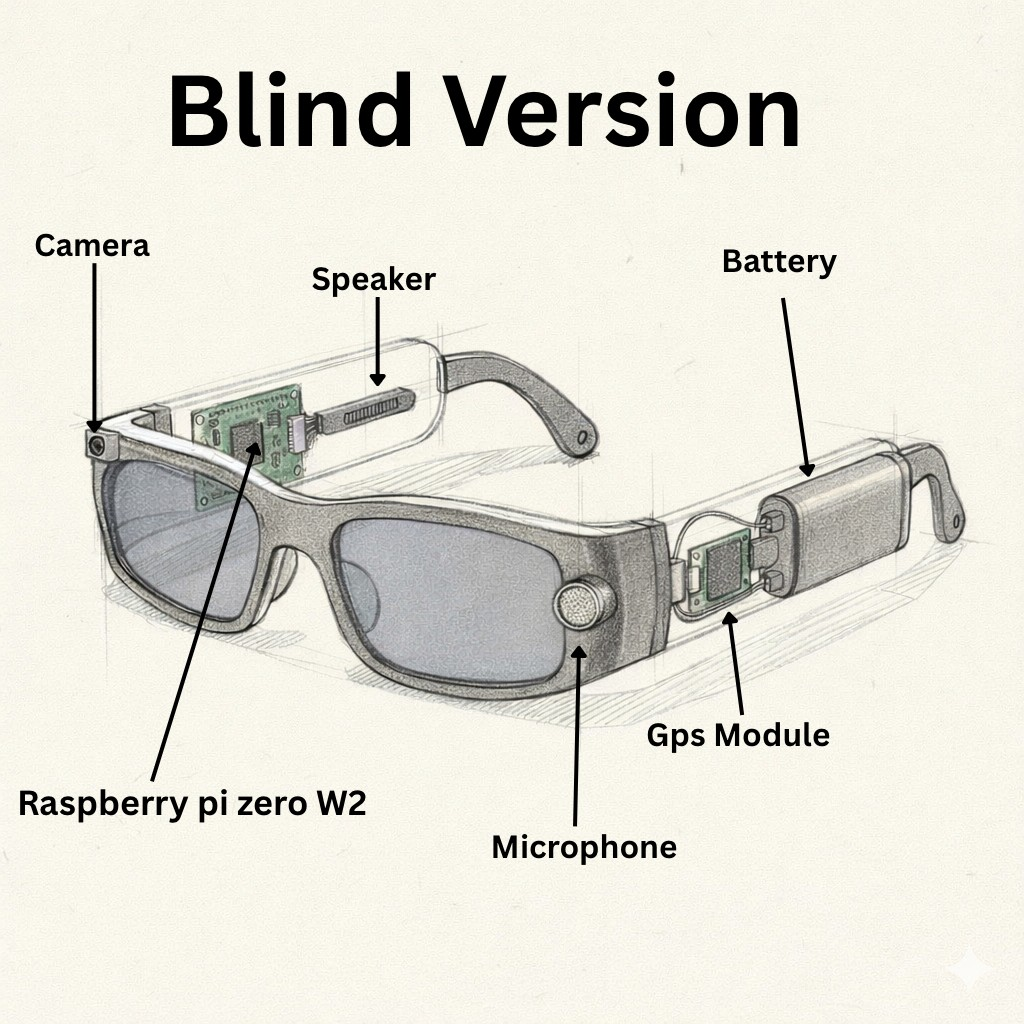
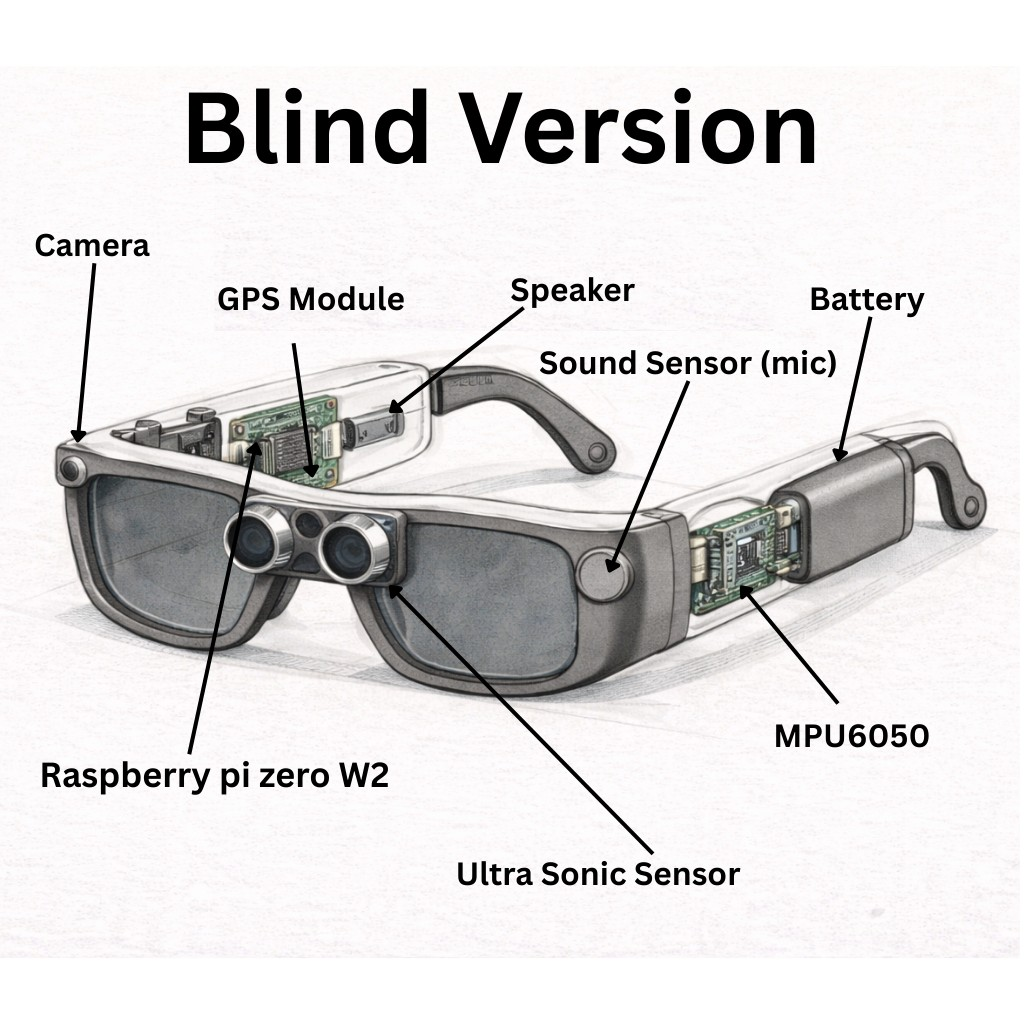
LifeLens updates: sensors, prototype images, dark mode, slideshow
- Add Ultrasonic (HC-SR04) and MPU6050 to hardware and workflow sections
- Update project description with computer vision, distance/motion sensing, Raspberry Pi
- Replace prototype diagrams (Blind & Deaf versions) with new labeled diagrams
- Force dark mode only (ignore system preference)
- Reality strip: slow looping slideshow with pause on hover/touch

Made-with: Cursor

diff --git a/src/components/story/StoryRealityStrip.tsx b/src/components/story/StoryRealityStrip.tsx
@@ -1,5 +1,6 @@
 "use client";
 
+import { useState } from "react";
 import { motion } from "framer-motion";
 import Image from "next/image";
 
@@ -37,6 +38,8 @@ const realityImages = [
 ];
 
 export default function StoryRealityStrip() {
+  const [isPaused, setIsPaused] = useState(false);
+
   return (
     <section id="reality" className="relative py-20 sm:py-24 lg:py-28 bg-gradient-to-b from-black via-zinc-950 to-zinc-950">
       <div className="pointer-events-none absolute inset-0 bg-[radial-gradient(circle_at_top,_rgba(59,130,246,0.25),transparent_55%)]" />
@@ -58,32 +61,43 @@ export default function StoryRealityStrip() {
           </h2>
         </motion.div>
 
-        <div className="flex gap-5 sm:gap-6 overflow-x-auto pb-4 snap-x snap-mandatory -mx-4 px-4 sm:mx-0 sm:px-0">
-          {realityImages.map((img, i) => (
-            <motion.div
-              key={img.caption}
-              initial={{ opacity: 0, y: 40, scale: 0.96 }}
-              whileInView={{ opacity: 1, y: 0, scale: 1 }}
-              viewport={{ once: true, amount: 0.4 }}
-              transition={{ duration: 0.6, delay: i * 0.06 }}
-              whileHover={{ y: -6, scale: 1.03, rotateY: 3 }}
-              className="relative min-w-[260px] max-w-xs sm:max-w-sm snap-center rounded-3xl border border-white/10 bg-white/[0.02] shadow-[0_24px_80px_rgba(0,0,0,0.85)] overflow-hidden"
-            >
-              <div className="relative aspect-[4/3]">
-                <Image
-                  src={img.src}
-                  alt={img.alt}
-                  fill
-                  className="object-cover scale-105 hover:scale-110 transition-transform duration-700 ease-out"
-                  sizes="(max-width: 768px) 80vw, 33vw"
-                />
-                <div className="absolute inset-0 bg-gradient-to-t from-black/80 via-black/20 to-transparent" />
-              </div>
-              <div className="absolute inset-x-0 bottom-0 p-4 text-xs sm:text-sm text-zinc-100">
-                {img.caption}
-              </div>
-            </motion.div>
-          ))}
+        <div
+          className="overflow-hidden -mx-4 sm:mx-0"
+          onMouseEnter={() => setIsPaused(true)}
+          onMouseLeave={() => setIsPaused(false)}
+          onTouchStart={() => setIsPaused(true)}
+          onTouchEnd={() => setIsPaused(false)}
+          onTouchCancel={() => setIsPaused(false)}
+        >
+          <div
+            className="flex gap-5 sm:gap-6 w-max animate-reality-slideshow"
+            style={{ animationPlayState: isPaused ? "paused" : "running" }}
+          >
+            {[...realityImages, ...realityImages].map((img, i) => (
+              <motion.div
+                key={`${img.caption}-${i}`}
+                initial={{ opacity: 0, y: 40, scale: 0.96 }}
+                whileInView={{ opacity: 1, y: 0, scale: 1 }}
+                viewport={{ once: true, amount: 0.2 }}
+                transition={{ duration: 0.6, delay: (i % realityImages.length) * 0.06 }}
+                className="relative min-w-[260px] max-w-[260px] sm:min-w-[320px] sm:max-w-[320px] flex-shrink-0 rounded-3xl border border-white/10 bg-white/[0.02] shadow-[0_24px_80px_rgba(0,0,0,0.85)] overflow-hidden"
+              >
+                <div className="relative aspect-[4/3]">
+                  <Image
+                    src={img.src}
+                    alt={img.alt}
+                    fill
+                    className="object-cover scale-105 transition-transform duration-700 ease-out"
+                    sizes="(max-width: 768px) 260px, 320px"
+                  />
+                  <div className="absolute inset-0 bg-gradient-to-t from-black/80 via-black/20 to-transparent" />
+                </div>
+                <div className="absolute inset-x-0 bottom-0 p-4 text-xs sm:text-sm text-zinc-100">
+                  {img.caption}
+                </div>
+              </motion.div>
+            ))}
+          </div>
         </div>
       </div>
     </section>

diff --git a/src/components/sections/PrototypeSection.tsx b/src/components/sections/PrototypeSection.tsx
@@ -47,7 +47,7 @@ export default function PrototypeSection() {
               <div className="flex items-center justify-center min-h-[220px] sm:min-h-[280px] lg:min-h-[340px] w-full">
                 <Image
                   src="/images/prototype-blind.png"
-                  alt="LifeLens Blind Version: Camera, Raspberry Pi Zero W2, Speaker, Microphone, GPS Module, Battery"
+                  alt="LifeLens Blind Version: Camera, Ultrasonic Sensor, Raspberry Pi Zero W2, Speaker, Microphone, GPS Module, MPU6050, Battery"
                   width={400}
                   height={300}
                   className="w-full h-auto object-contain max-h-[320px]"
@@ -60,8 +60,14 @@ export default function PrototypeSection() {
                 <span className="px-3 py-1.5 rounded-full bg-violet-500/20 text-violet-600 dark:text-violet-400 text-xs font-medium">
                   Raspberry Pi Zero W2
                 </span>
+                <span className="px-3 py-1.5 rounded-full bg-amber-500/20 text-amber-600 dark:text-amber-400 text-xs font-medium">
+                  Ultrasonic
+                </span>
                 <span className="px-3 py-1.5 rounded-full bg-cyan-500/20 text-cyan-600 dark:text-cyan-400 text-xs font-medium">
                   Speaker
+                </span>
+                <span className="px-3 py-1.5 rounded-full bg-rose-500/20 text-rose-600 dark:text-rose-400 text-xs font-medium">
+                  MPU6050
                 </span>
                 <span className="px-3 py-1.5 rounded-full bg-emerald-500/20 text-emerald-600 dark:text-emerald-400 text-xs font-medium">
                   GPS
@@ -94,7 +100,7 @@ export default function PrototypeSection() {
               <div className="flex items-center justify-center min-h-[220px] sm:min-h-[280px] lg:min-h-[340px] w-full">
                 <Image
                   src="/images/prototype-deaf.png"
-                  alt="LifeLens Deaf Version: Transparent Display, Mic-1, Mic-2, Raspberry Pi Zero W2, GPS Module, Battery"
+                  alt="LifeLens Deaf Version: Camera, Sound Sensor (mic), Raspberry Pi Zero W2, Transparent Display, GPS Module, MPU6050, Battery"
                   width={400}
                   height={300}
                   className="w-full h-auto object-contain max-h-[320px]"
@@ -105,10 +111,13 @@ export default function PrototypeSection() {
                   Transparent Display
                 </span>
                 <span className="px-3 py-1.5 rounded-full bg-blue-500/20 text-blue-600 dark:text-blue-400 text-xs font-medium">
-                  Mic-1 & Mic-2
+                  Sound Sensor (mic)
                 </span>
                 <span className="px-3 py-1.5 rounded-full bg-violet-500/20 text-violet-600 dark:text-violet-400 text-xs font-medium">
                   Raspberry Pi Zero W2
+                </span>
+                <span className="px-3 py-1.5 rounded-full bg-rose-500/20 text-rose-600 dark:text-rose-400 text-xs font-medium">
+                  MPU6050
                 </span>
                 <span className="px-3 py-1.5 rounded-full bg-emerald-500/20 text-emerald-600 dark:text-emerald-400 text-xs font-medium">
                   GPS Module

diff --git a/src/components/sections/HowItWorksSection.tsx b/src/components/sections/HowItWorksSection.tsx
@@ -6,31 +6,49 @@ const steps = [
   {
     number: "1",
     title: "Camera captures surroundings",
-    description: "High-resolution camera captures the environment in real-time",
+    description: "The camera captures the surrounding environment in real time.",
     icon: "📷",
   },
   {
     number: "2",
-    title: "AI detects objects and environment",
-    description: "Computer vision AI identifies obstacles, people, text, and context",
+    title: "AI processes video feed",
+    description: "The AI model processes the video feed to detect objects, obstacles, and faces.",
     icon: "🤖",
   },
   {
     number: "3",
-    title: "Audio guidance for blind users",
-    description: "Voice feedback delivers navigation and hazard information",
-    icon: "🔊",
+    title: "Ultrasonic measures obstacles",
+    description: "The ultrasonic sensor measures the distance of nearby obstacles to improve navigation accuracy.",
+    icon: "📏",
   },
   {
     number: "4",
-    title: "Text captions for deaf users",
-    description: "Speech-to-text displayed on AR lens in real-time",
-    icon: "📝",
+    title: "Raspberry Pi processes & decides",
+    description: "The Raspberry Pi processes all sensor data and determines the appropriate response.",
+    icon: "🖥",
   },
   {
     number: "5",
-    title: "Emergency monitoring & GPS",
-    description: "Location tracking and SOS alerts for safety",
+    title: "Audio guidance for blind users",
+    description: "For blind users, the system provides audio guidance through the speaker about obstacles, directions, or recognized people.",
+    icon: "🔊",
+  },
+  {
+    number: "6",
+    title: "Speech-to-text for deaf users",
+    description: "For deaf users, the microphone captures speech and converts it into text displayed on the transparent display.",
+    icon: "📝",
+  },
+  {
+    number: "7",
+    title: "MPU6050 fall detection",
+    description: "The MPU6050 motion sensor monitors body movement and detects falls, enabling the system to trigger emergency alerts.",
+    icon: "🔄",
+  },
+  {
+    number: "8",
+    title: "GPS & SOS alerts",
+    description: "The GPS module tracks the user's location and sends SOS alerts with live location to family members when needed.",
     icon: "🛟",
   },
 ];

diff --git a/src/components/sections/ArchitectureSection.tsx b/src/components/sections/ArchitectureSection.tsx
@@ -3,7 +3,7 @@
 import { motion } from "framer-motion";
 
 const nodes = [
-  { id: "input", label: "Input", items: ["Camera", "Microphone"], icon: "📥" },
+  { id: "input", label: "Input", items: ["Camera", "Microphone", "Ultrasonic (HC-SR04)", "MPU6050"], icon: "📥" },
   { id: "edge", label: "Raspberry Pi Zero 2 W", sub: "Edge Processing Unit", icon: "🖥" },
   { id: "ai", label: "AI Processing", items: ["Object Detection", "OCR Text Recognition", "Speech Recognition"], icon: "🤖" },
   { id: "decision", label: "Decision & Output Engine", sub: "Synthesizes data, routes output", icon: "⚙" },
@@ -17,6 +17,8 @@ const hardware = [
   { name: "GPS Module", role: "Location & SOS" },
   { name: "Transparent OLED", role: "Captions for deaf users" },
   { name: "Speaker", role: "Audio for blind users" },
+  { name: "Ultrasonic Sensor (HC-SR04)", role: "Distance to obstacles for navigation" },
+  { name: "MPU6050 (Accelerometer + Gyroscope)", role: "Fall detection, emergency alerts" },
   { name: "Battery", role: "Power" },
 ];
 
@@ -42,7 +44,7 @@ export default function ArchitectureSection() {
             System Architecture
           </h2>
           <p className="mt-4 text-lg text-muted-foreground max-w-2xl mx-auto">
-            Camera and microphone feed the Raspberry Pi Zero 2 W, which runs a single AI processing layer (object detection, OCR, speech recognition). The Decision Engine routes output to captions for deaf users, audio for blind users, and a companion app for GPS/SOS.
+            The camera captures the surrounding environment in real time; the AI model processes the video feed to detect objects, obstacles, and faces. The ultrasonic sensor measures distance to nearby obstacles for navigation accuracy. The Raspberry Pi processes all sensor data and determines the appropriate response. For blind users, audio guidance is delivered through the speaker; for deaf users, the microphone captures speech and converts it to text on the transparent display. The MPU6050 motion sensor monitors body movement and detects falls, enabling emergency alerts. The GPS module tracks location and sends SOS alerts with live location to family when needed.
           </p>
         </motion.div>
 

diff --git a/src/components/story/StoryPrototype.tsx b/src/components/story/StoryPrototype.tsx
@@ -34,13 +34,13 @@ export default function StoryPrototype() {
               id: "blind",
               title: "Blind version",
               src: "/images/prototype-blind-version.png",
-              description: "Camera, speaker, microphone, GPS and battery arranged to prioritise obstacle detection and audio guidance.",
+              description: "Camera, Ultrasonic Sensor (HC-SR04), Raspberry Pi Zero W2, speaker, microphone, GPS module, MPU6050 motion sensor and battery for obstacle detection, navigation and fall-detection alerts.",
             },
             {
               id: "deaf",
               title: "Deaf version",
               src: "/images/prototype-deaf-version.png",
-              description: "Dual microphones, transparent display and GPS to focus on live captions and safety alerts.",
+              description: "Camera, sound sensor (mic), Raspberry Pi Zero W2, transparent display, GPS module, MPU6050 and battery for live captions and safety alerts.",
             },
           ].map((item, index) => (
             <motion.div
@@ -54,7 +54,7 @@ export default function StoryPrototype() {
               <div className="relative aspect-[4/3] bg-zinc-950">
                 <Image
                   src={item.src}
-                  alt={item.title}
+                  alt={item.id === "blind" ? "LifeLens Blind Version prototype: Camera, Ultrasonic Sensor, Raspberry Pi Zero W2, Speaker, Microphone, GPS Module, MPU6050, Battery" : "LifeLens Deaf Version prototype: Camera, Sound Sensor (mic), Raspberry Pi Zero W2, Transparent Display, GPS Module, MPU6050, Battery"}
                   fill
                   className="object-contain p-6 sm:p-8"
                   sizes="(max-width: 768px) 100vw, 50vw"

diff --git a/src/app/layout.tsx b/src/app/layout.tsx
@@ -25,12 +25,12 @@ export const viewport = {
 export const metadata: Metadata = {
   title: "LifeLens – AI Smart Assistive Goggles for Blind and Deaf People | Code Paglu's",
   description:
-    "AI-powered smart goggles that help blind users navigate safely and deaf users understand conversations in real time. Built by Code Paglu's.",
+    "AI-powered smart goggles with computer vision, ultrasonic distance sensing, MPU6050 motion detection, speech recognition, and real-time Raspberry Pi processing. Help blind users navigate safely and deaf users understand conversations. Built by Code Paglu's.",
   keywords: ["LifeLens", "AI", "smart goggles", "accessibility", "blind", "deaf", "assistive technology"],
   openGraph: {
     title: "LifeLens – AI Smart Goggles for Accessibility",
     description:
-      "AI-powered smart goggles for blind and deaf individuals. Real-time navigation, captions, and safety.",
+      "AI-powered smart goggles with computer vision, ultrasonic and motion sensors, speech-to-text, and real-time processing. Navigation, captions, and safety for blind and deaf users.",
   },
 };
 
@@ -40,7 +40,7 @@ export default function RootLayout({
   children: React.ReactNode;
 }>) {
   return (
-    <html lang="en" suppressHydrationWarning>
+    <html lang="en" className="dark" suppressHydrationWarning>
       <body className={`${inter.variable} ${spaceGrotesk.variable} font-sans antialiased`}>
         <ThemeProvider>
           <SmoothScrollProvider>{children}</SmoothScrollProvider>

diff --git a/src/components/ThemeProvider.tsx b/src/components/ThemeProvider.tsx
@@ -12,30 +12,15 @@ interface ThemeContextType {
 const ThemeContext = createContext<ThemeContextType | undefined>(undefined);
 
 export function ThemeProvider({ children }: { children: ReactNode }) {
-  const [theme, setTheme] = useState<Theme>("light");
+  const [theme, setTheme] = useState<Theme>("dark");
 
   const toggleTheme = () => {
-    const newTheme = theme === "light" ? "dark" : "light";
-    setTheme(newTheme);
-    if (typeof window !== "undefined") {
-      localStorage.setItem("theme", newTheme);
-      document.documentElement.classList.toggle("dark", newTheme === "dark");
-    }
+    // App is dark-only; no-op to keep API stable if anything calls it
   };
 
   useEffect(() => {
-    const stored = localStorage.getItem("theme") as Theme | null;
-    const prefersDark = window.matchMedia("(prefers-color-scheme: dark)").matches;
-    
-    if (stored) {
-      setTheme(stored);
-      document.documentElement.classList.toggle("dark", stored === "dark");
-    } else if (prefersDark) {
-      setTheme("dark");
-      document.documentElement.classList.add("dark");
-    } else {
-      document.documentElement.classList.remove("dark");
-    }
+    document.documentElement.classList.add("dark");
+    setTheme("dark");
   }, []);
 
   return (

diff --git a/src/components/story/StoryConcept.tsx b/src/components/story/StoryConcept.tsx
@@ -23,8 +23,9 @@ export default function StoryConcept() {
             A quiet companion that sees and listens for you.
           </h2>
           <p className="mt-3 max-w-2xl mx-auto text-sm sm:text-base text-zinc-300">
-            LifeLens is currently a concept — a pair of AI-powered smart goggles that could detect obstacles, read text, caption speech,
-            and keep loved ones informed when something goes wrong.
+            LifeLens is currently a concept — a pair of AI-powered smart goggles that integrate computer vision, distance sensing (ultrasonic),
+            motion detection (MPU6050), speech recognition and text display, with real-time processing on a Raspberry Pi. The device could detect
+            obstacles, read text, caption speech, and keep loved ones informed when something goes wrong.
           </p>
         </motion.div>
 

diff --git a/src/app/globals.css b/src/app/globals.css
@@ -73,3 +73,17 @@ body {
   -webkit-text-fill-color: transparent;
   background-clip: text;
 }
+
+/* Slow slideshow loop for reality strip */
+@keyframes reality-slideshow {
+  0% {
+    transform: translateX(0);
+  }
+  100% {
+    transform: translateX(-50%);
+  }
+}
+
+.animate-reality-slideshow {
+  animation: reality-slideshow 10s linear infinite;
+}

diff --git a/src/components/sections/TechStackSection.tsx b/src/components/sections/TechStackSection.tsx
@@ -10,6 +10,8 @@ const hardware = [
   "Microphone",
   "Speaker",
   "GPS module",
+  "Ultrasonic Sensor (HC-SR04)",
+  "MPU6050 Motion Sensor (Accelerometer + Gyroscope)",
 ];
 
 const software = [
